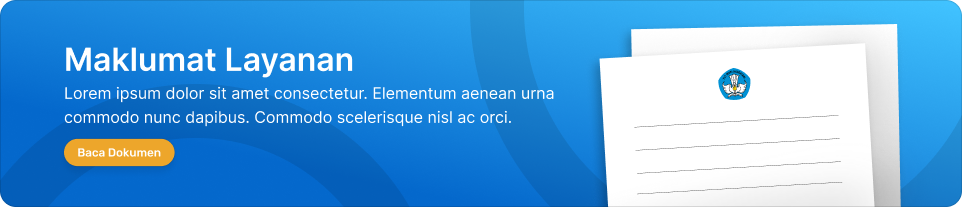
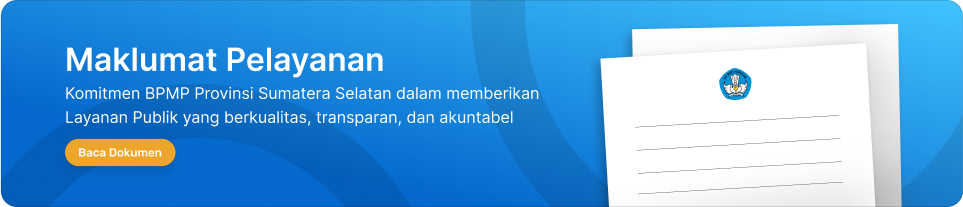
update comment index.php

diff --git a/pages/index.php b/pages/index.php
@@ -191,15 +191,17 @@
     <section class="container bg-default">
         <div class="wrapper">
             <div class="flex column gap-10 gap-8-mobile">
-	            <div class="flex column text-balance gap-7">
+	            <div class="flex column text-balance">
 	                <h1 class="display-lg">Layanan Publik</h1>
 	            </div>
 	            <div class="grid grid-4 grid-2-tablet grid-2-mobile gap-7">
                     <div class="card">
-                        <div class="flex row column-mobile gap-5 p-4 height-100 width-100">
-                            <img src="/assets/images/layanan-1.svg" class="height-full">
+                        <div class="flex row items-center column-mobile gap-5 p-4 height-100 width-100">
+                            <div class="flex justify-center items-center surface-purple-50 rounded-8 shrink-0" style="height: 74px; width: 74px;">
+                                <img src="/assets/images/layanan-1.svg" alt="Pendampingan Daring/Luring">    
+                            </div>
                             <div class="flex column text-left gap-3">
-                                <h2 class="action bold text-balance">Pendampingan Daring/Luring</h2>
+                                <h2 class="action text-balance">Pendampingan Daring/Luring</h2>
                                 <a href="/inovasi-dan-layanan/pendampingan" class="button small" target="_blank">
                                     Lihat Layanan
                                 </a>
@@ -207,10 +209,12 @@
                         </div>
                     </div>
                     <div class="card">
-                        <div class="flex row column-mobile gap-5 p-4 height-100 width-100">
-                            <img src="/assets/images/layanan-2.svg" class="height-full">
+                        <div class="flex row items-center column-mobile gap-5 p-4 height-100 width-100">
+                            <div class="flex justify-center items-center surface-orange-50 rounded-8 shrink-0" style="height: 74px; width: 74px;">
+                                <img src="/assets/images/layanan-2.svg" alt="Pengaduan Masyarakat">    
+                            </div>
                             <div class="flex column text-left gap-3">
-                                <h2 class="action bold text-balance">Pengaduan Masyarakat</h2>
+                                <h2 class="action text-balance">Pengaduan Masyarakat</h2>
                                 <a href="/inovasi-dan-layanan/pengaduan" class="button small" target="_blank">
                                     Lihat Layanan
                                 </a>
@@ -218,10 +222,12 @@
                         </div>
                     </div>
                     <div class="card">
-                        <div class="flex row column-mobile gap-5 p-4 height-100 width-100">
-                            <img src="/assets/images/layanan-3.svg" class="height-full">
+                        <div class="flex row items-center column-mobile gap-5 p-4 height-100 width-100">
+                            <div class="flex justify-center items-center surface-green-50 rounded-8 shrink-0" style="height: 74px; width: 74px;">
+                                <img src="/assets/images/layanan-3.svg" alt="Unit Layanan Terpadu (ULT)">    
+                            </div>
                             <div class="flex column text-left gap-3">
-                                <h2 class="action bold text-balance">Unit Layanan Terpadu (ULT)</h2>
+                                <h2 class="action text-balance">Unit Layanan Terpadu (ULT)</h2>
                                 <a href="/inovasi-dan-layanan/layanan-utama" class="button small" target="_blank">
                                     Lihat Layanan
                                 </a>
@@ -229,10 +235,12 @@
                         </div>
                     </div>
                     <div class="card">
-                        <div class="flex row column-mobile gap-5 p-4 height-100 width-100">
-                            <img src="/assets/images/layanan-4.svg" class="height-full">
+                        <div class="flex row items-center column-mobile gap-5 p-4 height-100 width-100">
+                            <div class="flex justify-center items-center surface-pink-50 rounded-8 shrink-0" style="height: 74px; width: 74px;">
+                                <img src="/assets/images/layanan-4.svg" alt="Peminjaman Fasilitas">    
+                            </div>
                             <div class="flex column text-left gap-3">
-                                <h2 class="action bold text-balance">Peminjaman Fasilitas</h2>
+                                <h2 class="action text-balance">Peminjaman<br>Fasilitas</h2>
                                 <a href="/tentang-kami/sarana-prasarana" class="button small" target="_blank">
                                     Lihat Layanan
                                 </a>
@@ -247,7 +255,7 @@
     <section class="container bg-default pt-0 pb-14">
         <div class="wrapper" style="max-width: 1240px;">
             <div class="flex column justify-center items-center gap-10 gap-8-mobile" style="height: 207px;">
-                <div class="carousel loop arrow clear arrow-bordered" data-carousel-visible="1" data-carousel-visible-mobile="1" data-sliding-span="1" data-peek="20">
+                <div class="carousel loop autoplay arrow clear arrow-bordered" data-carousel-visible="1" data-carousel-visible-mobile="1" data-sliding-span="1" data-peek="20">
                     <div class="carousel-inner">
                         <div class="carousel-item">
                             <img src="/assets/images/banner-1.png" alt="Banner 1">
@@ -376,14 +384,14 @@
                                         </div>
                                     </div>
                                     <div class="meta">
-                                        <div class="avatar round medium" style="background-image: url(/assets/images/avatar.png);">
+                                        <div class="avatar round xl" style="background-image: url(/assets/images/avatar.png);">
                                         </div>
                                         <div class="info">
-                                            <div class="authorname">
+                                            <div class="authorname action">
                                                 Adrianus Amri
                                             </div>
                                             <div class="dateview">
-                                                <span class="institution">
+                                                <span class="institution body-sm">
                                                     Kepala Dinas Kota Palembang
                                                 </span>
                                             </div>
@@ -403,14 +411,14 @@
                                         </div>
                                     </div>
                                     <div class="meta">
-                                        <div class="avatar round medium" style="background-image: url(/assets/images/avatar.png);">
+                                        <div class="avatar round xl" style="background-image: url(/assets/images/avatar-2.png);">
                                         </div>
                                         <div class="info">
-                                            <div class="authorname">
+                                            <div class="authorname action">
                                                 Vina Driani, Ph.D.
                                             </div>
                                             <div class="dateview">
-                                                <span class="institution">
+                                                <span class="institution body-sm">
                                                     Direktur SEAMEO CECCEP
                                                 </span>
                                             </div>
@@ -430,14 +438,14 @@
                                         </div>
                                     </div>
                                     <div class="meta">
-                                        <div class="avatar round medium" style="background-image: url(/assets/images/avatar.png);">
+                                        <div class="avatar round xl" style="background-image: url(/assets/images/avatar-2.png);">
                                         </div>
                                         <div class="info">
-                                            <div class="authorname">
+                                            <div class="authorname action">
                                                 Murniasih
                                             </div>
                                             <div class="dateview">
-                                                <span class="institution">
+                                                <span class="institution body-sm">
                                                     SMP Negeri 1 Indralaya, Kab. Ogan Ilir
                                                 </span>
                                             </div>

diff --git a/pages/tentang-kami/rbi-ziwbk.php b/pages/tentang-kami/rbi-ziwbk.php
@@ -196,7 +196,7 @@
                                         </div>
                                     </div>
                                     <div class="meta">
-                                        <div class="avatar round xl" style="background-image: url(/assets/images/avatar.png);">
+                                        <div class="avatar round xl" style="background-image: url(/assets/images/avatar-2.png);">
                                         </div>
                                         <div class="info">
                                             <div class="authorname action">
